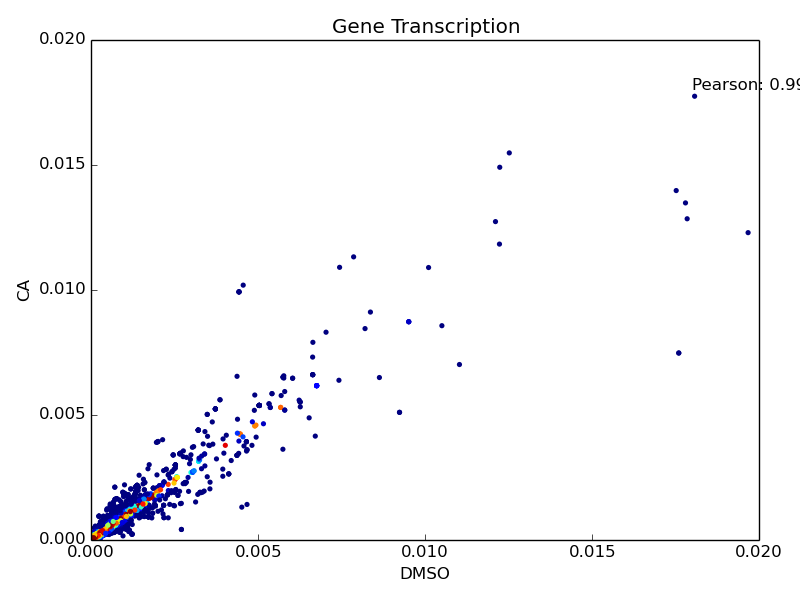
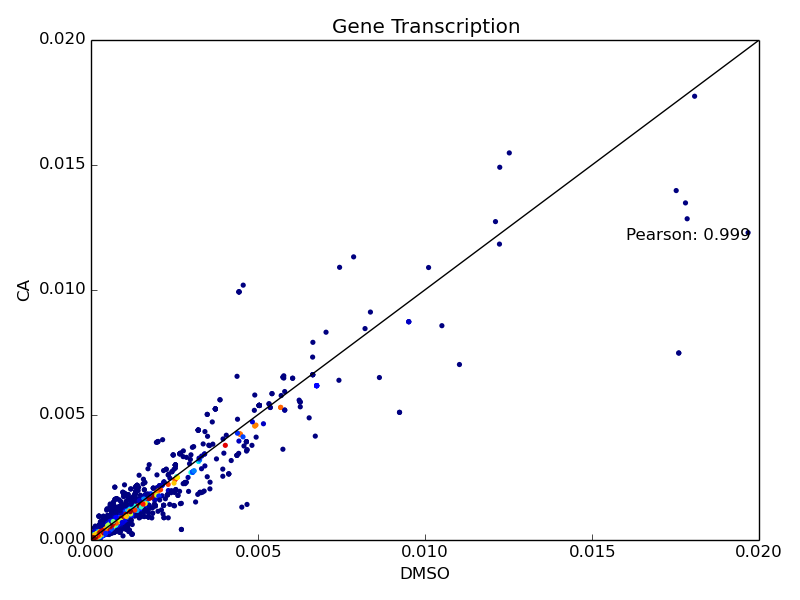
updates

diff --git a/src/master_writer.py b/src/master_writer.py
@@ -356,7 +356,7 @@ def run(DMSOgenes,DMSOTSS,DMSOEND,CAgenes,CATSS,CAEND,filedir,figuredir):
     ax.set_xlim([0, 0.02])
     ax.set_ylim([0, 0.02])
     ax.plot([0,50.0],[0,50.0],color='k')
-    ax.text(0.016,0.012, "Pearson: " + str(pearsons)[0:5])
+    ax.text(0.015,0.012, "Pearson: " + str(pearsons)[0:5])
     plt.savefig(figuredir + '/Pearson.png')
     
     meanX = np.mean(TRx)
